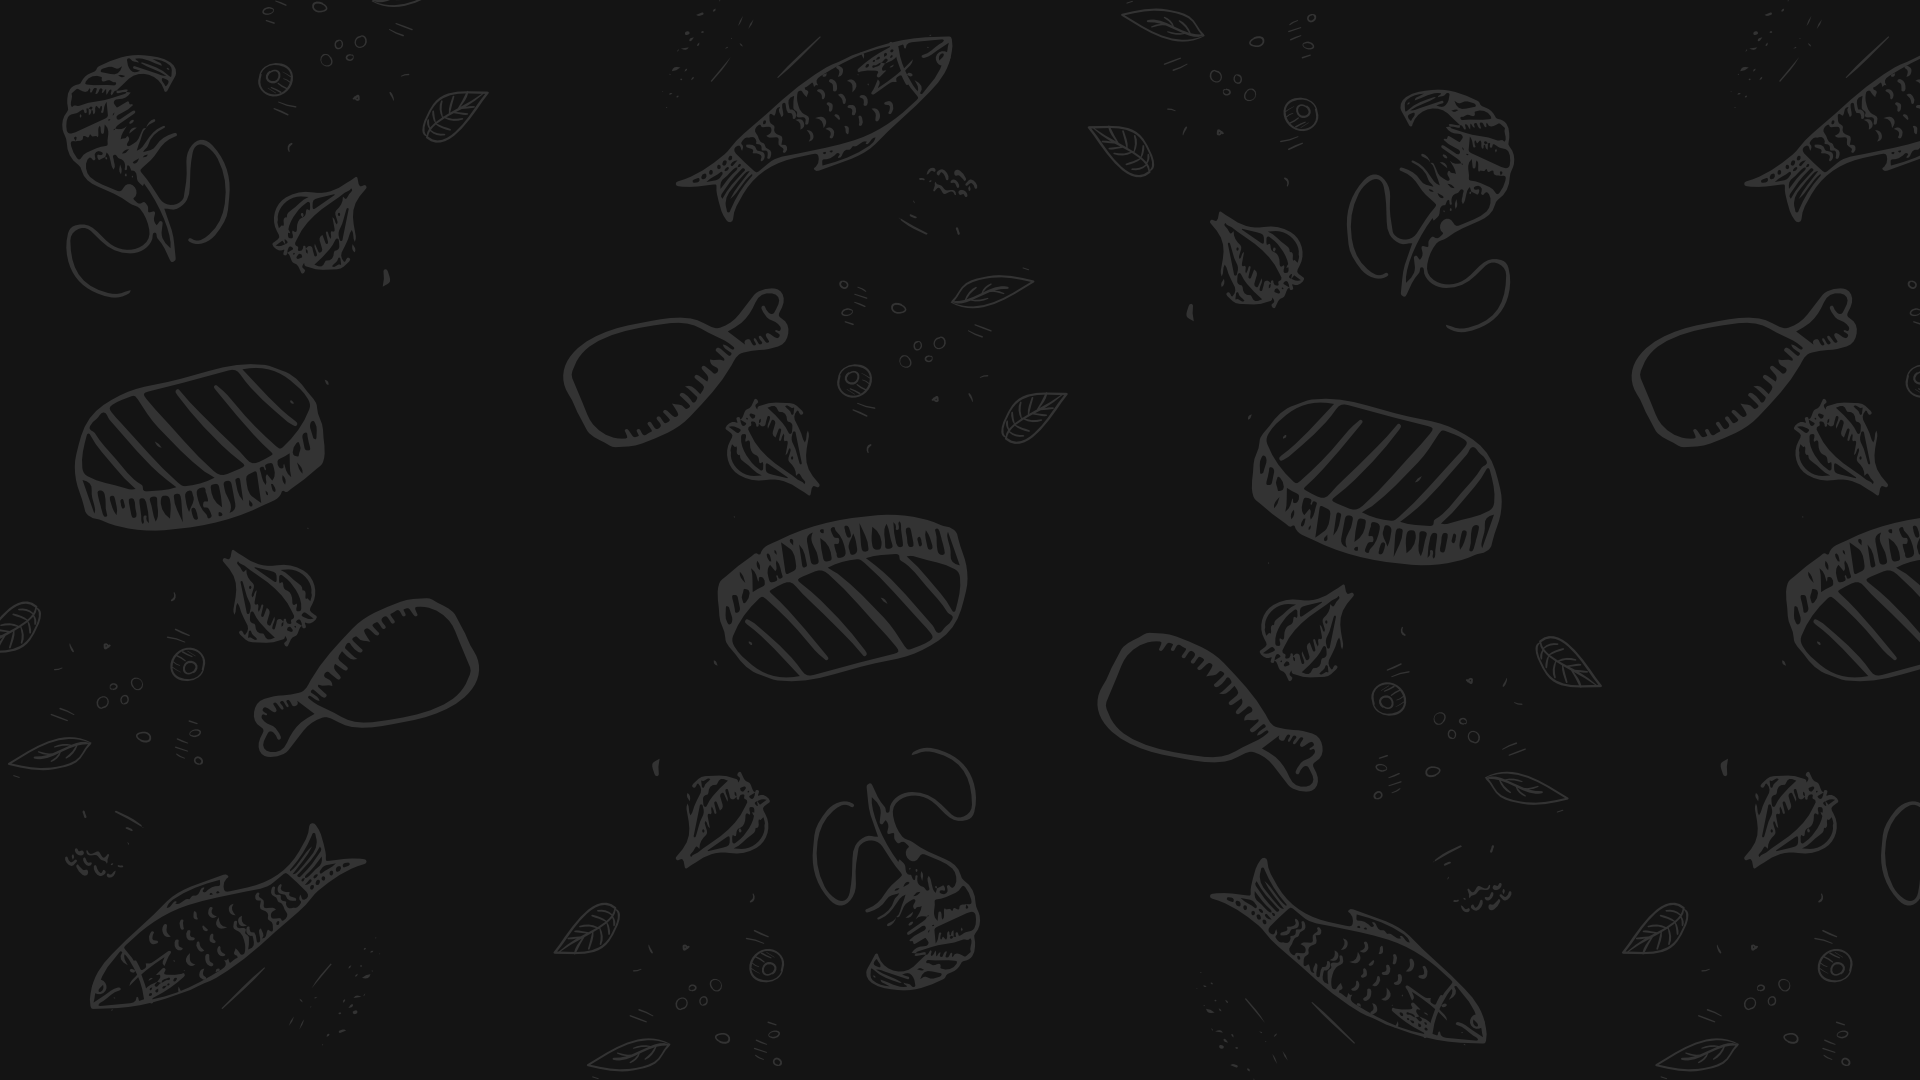
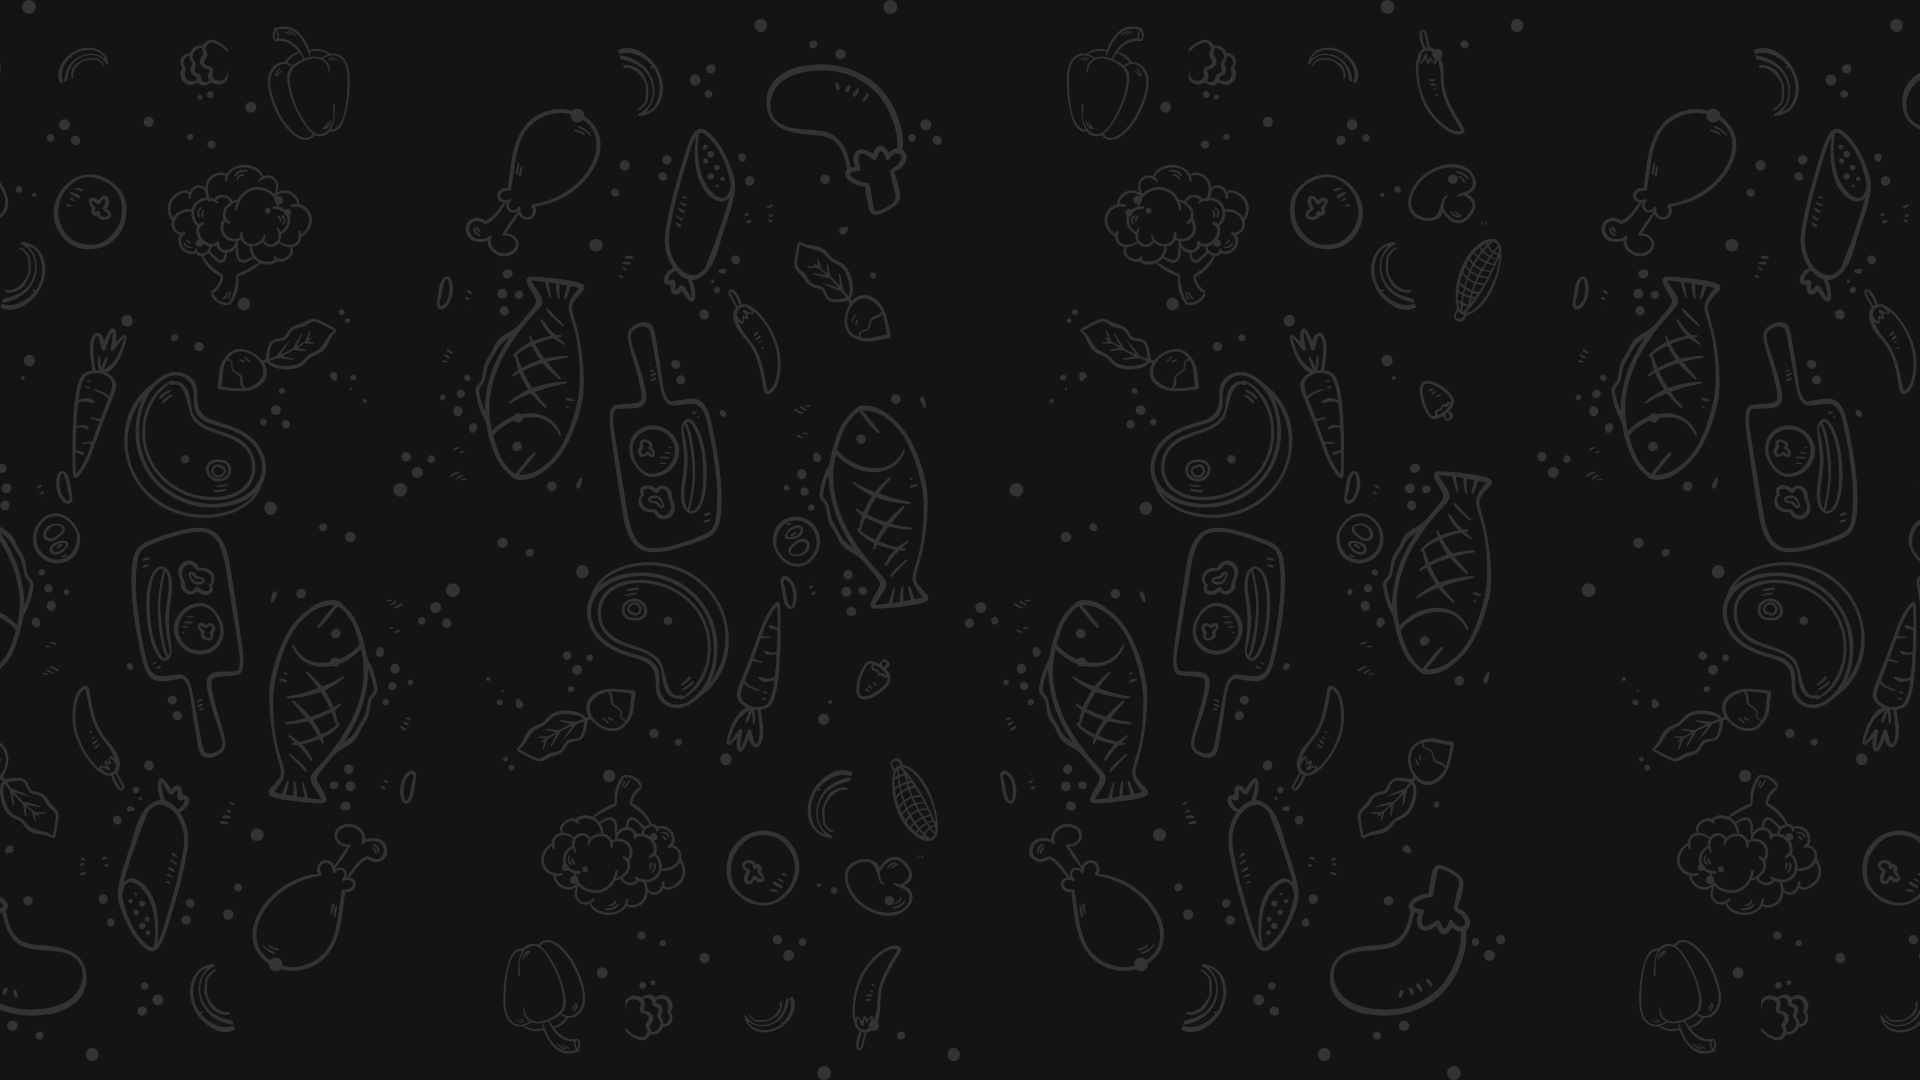
Changed background and modified footer credit

diff --git a/app/templates/index.html b/app/templates/index.html
@@ -109,11 +109,11 @@
   <br>
   <div class="row">
     <div class="col-12">
-      <p id="credit_self">Made with ❤ by Emil Gabrielli & Bjørn Arild Lunde<br>
+      <p class="credit_self">Made with ❤ by Emil Gabrielli & Bjørn Arild Lunde<br>
        Contact: E-post@mail.no & E-post@mail.no</p>
        <br>
-      <p id="credit_self"><a href="https://www.freepik.com/free-photos-vectors/food">Food vector created by freepik - www.freepik.com</a><br>
-      <a href="https://www.freepik.com/free-photos-vectors/background">Background vector created by freepik - www.freepik.com</a></p>
+      <p class="credit_self"><a href="https://www.freepik.com/free-photos-vectors/food">Food vector created by freepik - www.freepik.com</a><br>
+      <a href="https://www.freepik.com/free-photos-vectors/background">Background vector created by freepik - www.freepik.com</a><br></p>
     </div>
   </div>
 </div>

diff --git a/app/static/css/main.css b/app/static/css/main.css
@@ -121,13 +121,18 @@ body{
   font-size: 20px;
 }
 
-#credit_self{
+.credit_self{
   text-align: center;
   font-size: 14px;
 }
 
-a{
+.credit_self a{
   color: white;
+}
+
+.credit_self a:hover{
+  text-decoration: underline;
+  color: lightgrey;
 }
 
 #gmap{
